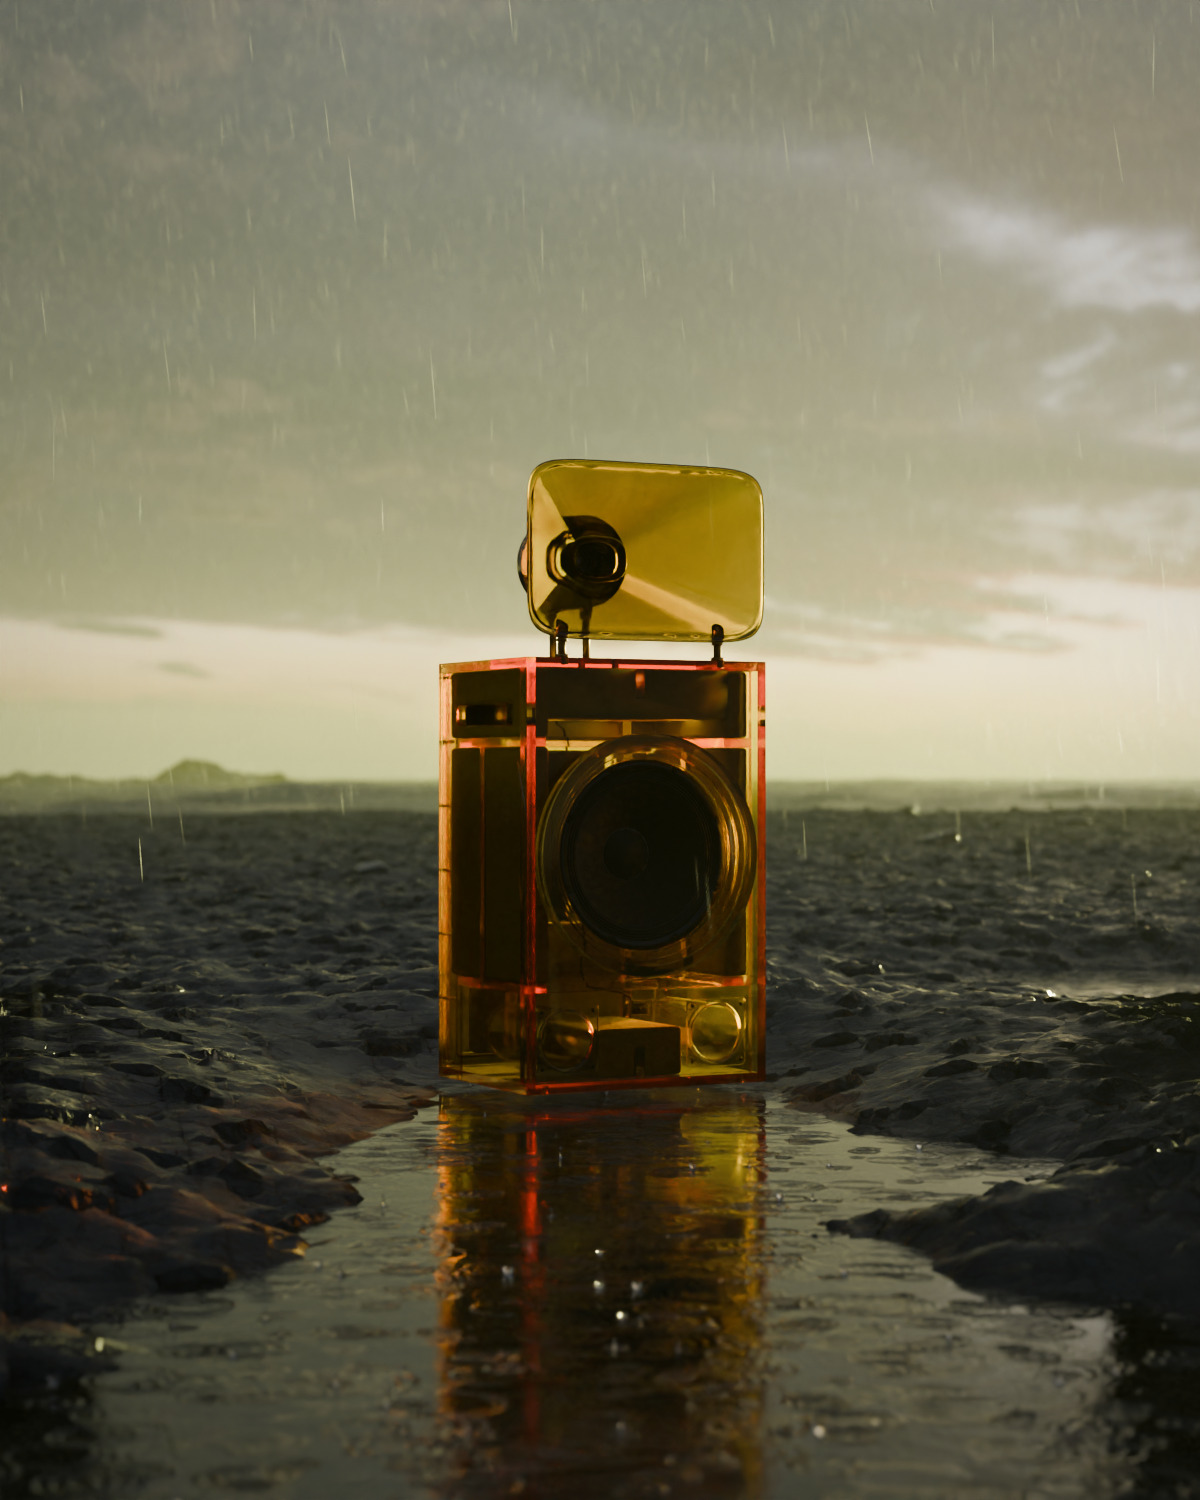
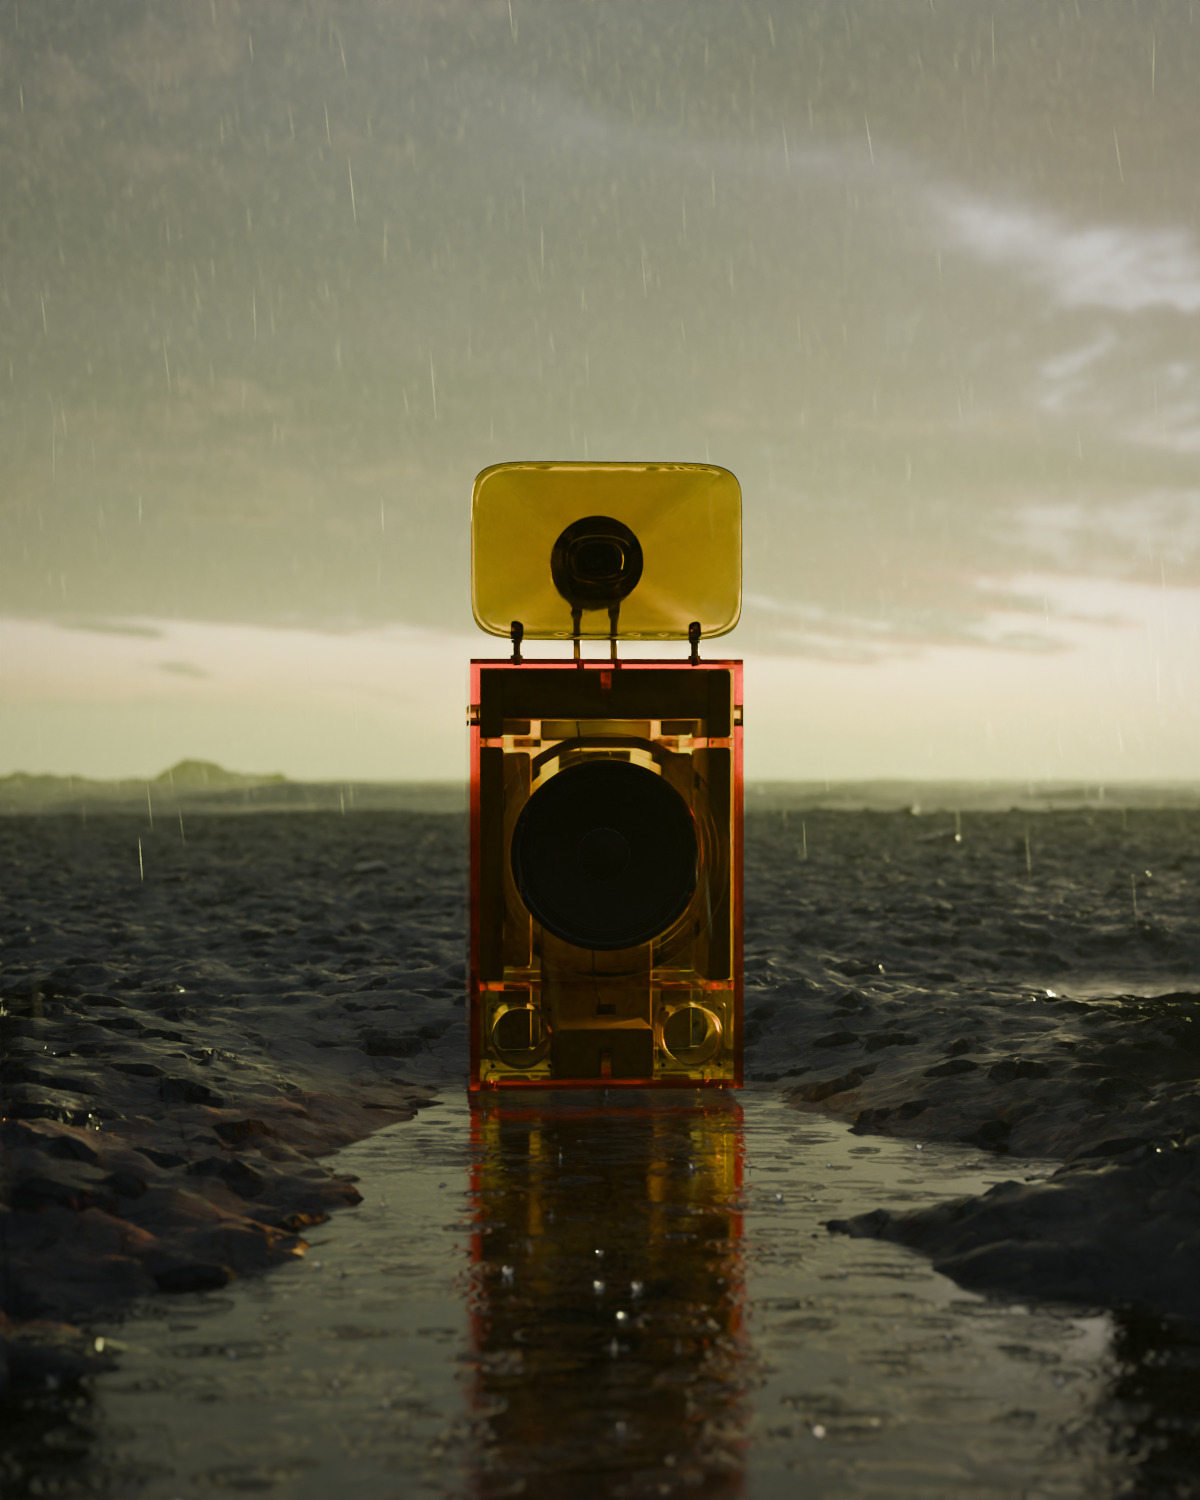
biomes: Acid polished at 4 deg off, the gate: all four PASS; crease 5.9 / 10.8
Claude-Session: https://claude.ai/code/session_01BAaPTnGwdpP4WKGVD3vbqx

Changed region(s): [[0.3392, 0.3067, 0.6475, 1.0], [0.37, 0.9813, 0.4008, 1.0]]

diff --git a/renders/2026-11-03/barkhorn/habitats/CHECK.md b/renders/2026-11-03/barkhorn/habitats/CHECK.md
@@ -23,6 +23,6 @@ Withdrawn:
 | Dust (polished) | PASS | PASS | PASS | PASS | Sand bounce 0.35, no tumbleweed, 64 samples. Amber-red acrylic: the woofer, ring, braces, ports, crossover box, its screws and the desert behind show through. The rail sits on the ripples: luma 81 under the front edge against 107 for open sand. The contact shadow is weak. The red patch is the tinted shadow. The horn is a smooth glassy shell, with the driver showing as a smooth bulb and no X. |
 | Ice (polished) | PASS | PASS | PASS | PASS | Bedded 22 mm, 64 samples. The woofer, ring, braces, ports and posts show through the front, and the cabin window shows through the side. The bottom batt is clearly in view (`ice-portrait-batt-crop.jpg`, 2x). A dark contact band: luma 108 under the base against 121-123 for open snow. No glow. The horn is a smooth glassy shell with the driver at its throat and no X. |
 | Fog (polished) | PASS | PASS | PASS | PASS | Sun at 110 (side, not behind), 96 samples, 48 min. Clear birch: the woofer frame, braces, shelves, ports, terminal plate, and the rock and grass behind show through. The base sits down in the grass with a dark shadow, the contact line mostly hidden by blades. No glow. The polished horn is clear, with faint corner creases and refraction, no X. |
-| Acid (polished, horn held) | PASS | PASS | PASS | PASS | Sink 0.03, 18 mm into the puddle: the reflection starts at the waterline. The woofer, braces, posts, ports and box show through the amber. The horn passed the four tests, but its crease span is 26.7 (`flare.py`, the flare clear of the driver) against 7.8 for Dust and 7.2 for Ice: the sky mirrored as a diagonal wedge at 28 deg off the camera's line. Re-render at rotate_z -2 (10 deg off) to follow. |
 | Ember (polished, turned) | PASS | PASS | PASS | PASS | rotate_z 12 (10 deg off the camera line), crack_r 2.0, camera at 0.8 m, 96 samples. Crease 8.3 / 4.3, left and right of the driver (`flare.py`; Dust 7.8, Ice 7.2): the sky wedge is gone. The 12 o'clock ring glint is gone (red max 233 -> 62). The woofer, braces and ports show through, and the lava through the side. Contact: luma 12 under the base against 26 beside it. |
 | Haze (polished, keyed from the side) | PASS | PASS | PASS | PASS | rotate_z -10 (5 deg off; at 10 deg off the narrow side face mirrored the sky as a flat sheet). The sun lamp at azimuth 100 and 6 deg up, the sky turned to 187.8, and the set's visible sun disk moved to azimuth 100, 6 deg up, out of frame, so the picture has one light source. 96 samples. Crease 6.6 / 5.6 (Dust 7.8, Ice 7.2). Dark violet: the woofer, frame, braces, ports and lower box show through, mostly in the lower third. Haze passes 11% through the box against Dust's 45%, a fact for the owner. A dark contact band in the grass. No glow. |
+| Acid (polished, 4 deg off) | PASS | PASS | PASS | PASS | rotate_z -8, sink 0.03 (18 mm into the puddle), 64 samples. Crease 5.9 / 10.8 (Dust 7.8, Ice 7.2; it was 26.7 at 28 deg off). The woofer, frames, braces, ports, posts and screws show through. The reflection starts at the base edge. The horn is smooth, with very faint creases invisible at phone size. |
